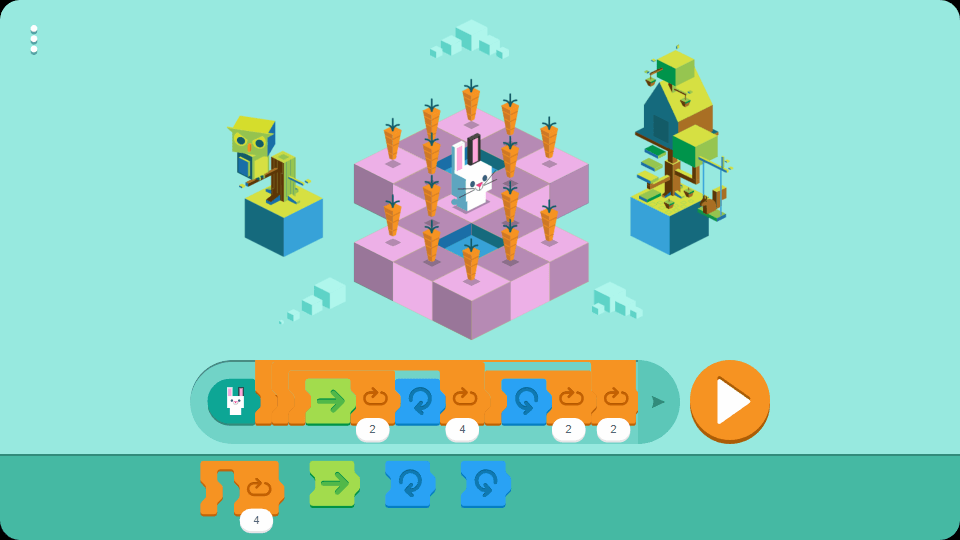
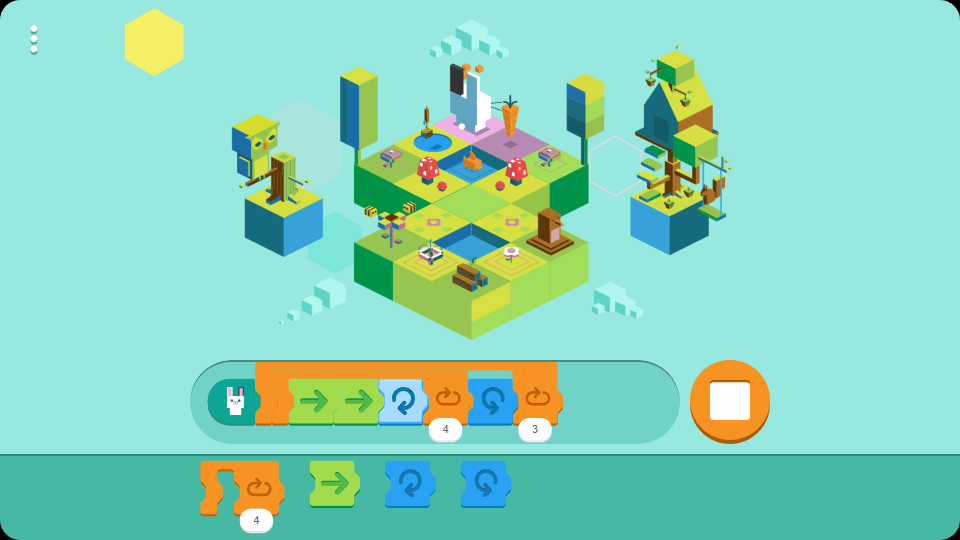
Added shortest solution for the forth level

diff --git a/README.md b/README.md
@@ -14,7 +14,7 @@ Fifth level - 6 blocks
 Sixth level - 6 blocks  
 
 ## Beware! Google hides truth!
-Real code length for the fifth level: 5 blocks and for sixth level: 4 blocks!  
+Real code length the fourth level: 6 blocks, for the fifth level: 5 blocks and for sixth level: 4 blocks!  
 Solution for fifth level is from: https://www.reddit.com/r/ProgrammerHumor/comments/7hrikj/valid_shortest_solution_that_requires_40_hours_to/  
 
 Your children shouldn't trust Google!
